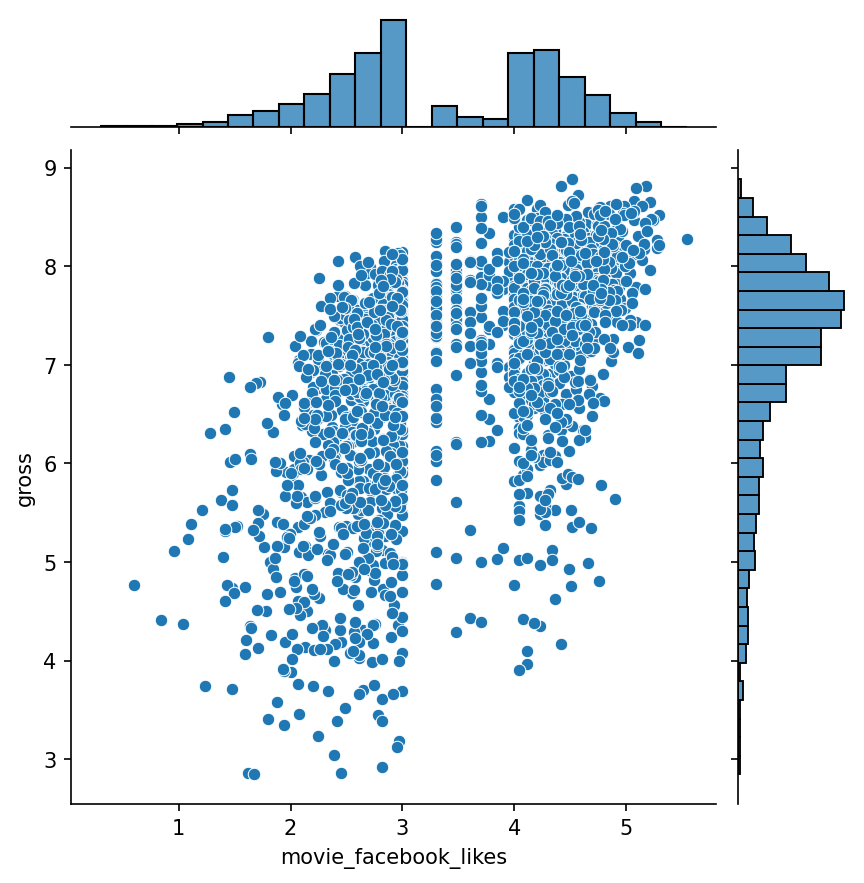
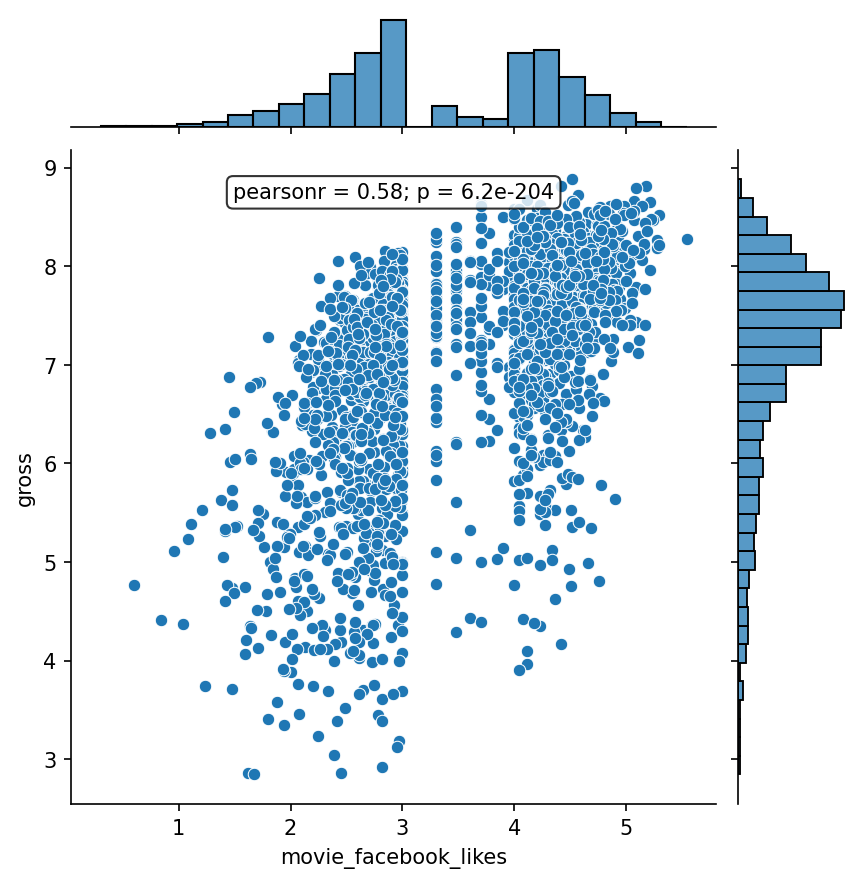
commit

Changed region(s): [[0.25, 0.1835, 0.6562, 0.2446]]

diff --git a/Seaborn.py b/Seaborn.py
@@ -58,15 +58,25 @@ from pathlib import Path
 meteo_mes = pd.read_csv("./U09_datasets/meteo_mes_agg.csv", sep = ";")
 
 # Vamos a ver ahora las temperaturas por mes
+
+# Cierra posibles figuras previas para evitar “manchas”
+plt.close('all')
+# Dibuja el gráfico sobre 'ax'
 sns.swarmplot(data=meteo_mes, x="mes", y="temp_c")
+# Ajusta márgenes automáticamente
 plt.tight_layout()
-
-BASE = Path(__file__).parent
+# Construye la ruta de salida dentro del workspace
+BASE = Path.cwd()
 out = BASE / "graficos_seaborn" / "plot.png"
+# Crea la carpeta si no existe
 out.parent.mkdir(parents=True, exist_ok=True)
-
+# Guarda la figura
 plt.savefig(out, dpi=150, bbox_inches="tight")
+# Imprime la ruta absoluta para comprobar que se ha creado correctamente
 print (f"OK -> {out.resolve()}")
+# Cierra la figura actual y no 'manchamos' la siguiente
+plt.close(plt.gcf())
+
 # sns.swarmplot() crea un gráfico de dispersión evitando que se solapen los puntos.
 
 ## DESCUBRIENDO LA DISTRIBUCION DE LOS DATOS ##
@@ -75,31 +85,35 @@ print (f"OK -> {out.resolve()}")
 # es examinar distintas medidas descriptivas de la distribución, como la media, la desviación 
 # típica, los mínimos y máximos, etc. a la hora de examinar gráficamente nuestros datos,
 # usaremos sns.displot().
-
+plt.close('all')
 sns.displot(meteo_mes['viento_vel_kmh'], kde=True)
-BASE = Path(__file__).parent
+BASE = Path.cwd()
 out = BASE / "graficos_seaborn" / "historico1.png"
 out.parent.mkdir(parents=True, exist_ok=True)
 plt.savefig(out, dpi=150, bbox_inches="tight")
 print (f"OK -> {out.resolve()}")
+plt.close(plt.gcf())
 
 # Podemos omitir el estimador de densidad con la opción 'kde = False'. También podemos añadir 
 # marcadores para ver el número de observaciones de cada valor en el eje X con la opción 'rug = True'.
-
+plt.close('all')
 sns.displot(meteo_mes['viento_vel_kmh'], kde=False, rug=True)
-BASE = Path(__file__).parent
+BASE = Path.cwd()
 out = BASE / "graficos_seaborn" / "historico2.png"
 out.parent.mkdir(parents=True, exist_ok=True)
 plt.savefig(out, dpi=150, bbox_inches="tight")
 print (f"OK -> {out.resolve()}")
+plt.close(plt.gcf())
 
 # Otra forma de ver la distribución de una variable es mediante un diagrama de caja o boxplot.
+plt.close('all')
 sns.boxplot(data=meteo_mes, y='viento_vel_kmh')
-BASE = Path(__file__).parent
+BASE = Path.cwd()
 out = BASE / "graficos_seaborn" / "caja1.png"
 out.parent.mkdir(parents=True, exist_ok=True)
 plt.savefig(out, dpi=150, bbox_inches="tight")
 print (f"OK -> {out.resolve()}")
+plt.close(plt.gcf())
 
 ## VISUALIZANDO RELACIONES ENTRE VARIABLES ##
 # -------------------------------------------------------------------------------------------
@@ -108,17 +122,37 @@ print (f"OK -> {out.resolve()}")
 # un diagrama de dispersión (o scatter plot). En Seaborn podemos generarlo con sns.jointplot().
 
 # Vamos a cargar datos de películas
+from scipy.stats import pearsonr
 path = "/workspaces/First-Repository/U09_datasets/imdb_movie.csv"
 movies = pd.read_csv(path, sep=None, engine="python")
 
 # Veamos si hay interacción entre el número de "likes" en Facebook
 # y los ingresos brutos de taquilla que consigue una película
-sns.jointplot(data = movies, x='movie_facebook_likes', y='gross')
-BASE = Path(__file__).parent
+plt.close('all')
+
+# Datos log10 seguros (sin ceros/negativos)
+movies_fb = movies.loc[movies['movie_facebook_likes'] > 0, ['movie_facebook_likes','gross']]
+cols = ["movie_facebook_likes", "gross"]
+df = movies_fb[cols].replace(0, np.nan).dropna()
+df = np.log10(df)
+
+g = sns.jointplot(
+    data = movies, x='movie_facebook_likes', y='gross'
+    , kind = "scatter", height=5, ratio=5, space=0)
+
+# Calculamos el coeficiente de Pearson y el p-valor asociado
+r, p = pearsonr(df["movie_facebook_likes"], df["gross"])
+g.ax_joint.text(
+    0.5, 0.95, f"pearsonr = {r:.2f}; p = {p:.1e}",
+    transform=g.ax_joint.transAxes, ha="center", va="top",
+    bbox=dict(boxstyle="round", facecolor="white", alpha=0.8))
+
+BASE = Path.cwd()
 out = BASE / "graficos_seaborn" / "dispersion1.png"
 out.parent.mkdir(parents=True, exist_ok=True)
-plt.savefig(out, dpi=150, bbox_inches="tight")
+g.figure.savefig(out, dpi=150, bbox_inches="tight")
 print (f"OK -> {out.resolve()}")
+plt.close(plt.gcf())
 
 # Este tipo de gráficos nos muestra la distribución conjunta del par de variables, junto con las distribuciones 
 # o histogramas marginales de cada variable independiente. Además, nos indica cuál es el coeficiente de Pearson 
@@ -127,22 +161,43 @@ print (f"OK -> {out.resolve()}")
 # vamos a quedarnos con las películas que tienen datos de "likes"
 movies_fb = movies.loc[movies['movie_facebook_likes'] > 0, ['movie_facebook_likes','gross']]
 # aplicamos `log10` a las variables antes de pintar
-sns.jointplot(data = np.log10(movies_fb), x = 'movie_facebook_likes', y = 'gross', )
 
-BASE = Path(__file__).parent
+plt.close('all')
+g = sns.jointplot(data = np.log10(movies_fb), x = 'movie_facebook_likes', y = 'gross', )
+
+r, p = pearsonr(df["movie_facebook_likes"], df["gross"])
+g.ax_joint.text(
+    0.5, 0.95, f"pearsonr = {r:.2f}; p = {p:.1e}",
+    transform=g.ax_joint.transAxes, ha="center", va="top",
+    bbox=dict(boxstyle="round", facecolor="white", alpha=0.8))
+
+BASE = Path.cwd()
 out = BASE / "graficos_seaborn" / "mapa1.png"
 out.parent.mkdir(parents=True, exist_ok=True)
-plt.savefig(out, dpi=150, bbox_inches="tight")
+g.figure.savefig(out, dpi=150, bbox_inches="tight")
 print (f"OK -> {out.resolve()}")
+plt.close(plt.gcf())
 
 # Si lo preferimos, podemos mostrar densidades de probabilidad estimadas en lugar 
 # de las observaciones e histogramas.
 
-sns.jointplot(data = np.log10(movies_fb), x = 'movie_facebook_likes', y = 'gross', kind="kde")
+plt.close('all')
+g = sns.jointplot(
+    data=df, x="movie_facebook_likes", y="gross",
+    kind="kde", fill=True, height=5, ratio=5, space=0)
+
+r, p = pearsonr(df["movie_facebook_likes"], df["gross"])
+g.ax_joint.text(
+    0.5, 0.95, f"pearsonr = {r:.2f}; p = {p:.1e}",
+    transform=g.ax_joint.transAxes, ha="center", va="top",
+    bbox=dict(boxstyle="round", facecolor="white", alpha=0.8))
+
+BASE = Path.cwd()
 out = BASE / "graficos_seaborn" / "mapa2.png"
 out.parent.mkdir(parents=True, exist_ok=True)
-plt.savefig(out, dpi=150, bbox_inches="tight")
+g.figure.savefig(out, dpi=150, bbox_inches="tight")
 print (f"OK -> {out.resolve()}")
+plt.close(plt.gcf())
 
 # Una vez que hemos identificado una posible interacción entre variables, 
 # podemos estimar y pintar un modelo ajustado a las observaciones.
@@ -152,11 +207,22 @@ print (f"OK -> {out.resolve()}")
 # Si preferimos omitir este ajuste lineal, basta con incluir la opción 'fit_reg=False'.
 
 # aplicamos `log10` a las variables antes de pintar
-sns.regplot(data = np.log10(movies_fb), x = 'movie_facebook_likes', y = 'gross')
+plt.close('all')
+g = sns.regplot(data = np.log10(movies_fb), x = 'movie_facebook_likes', y = 'gross')
+ax = plt.gca()
+
+r, p = pearsonr(df["movie_facebook_likes"], df["gross"])
+ax.text(
+    0.5, 0.95, f"pearsonr = {r:.2f}; p = {p:.1e}",
+    transform= ax.transAxes, ha="center", va="top",
+    bbox=dict(boxstyle="round", facecolor="white", alpha=0.8))
+
+BASE = Path.cwd()
 out = BASE / "graficos_seaborn" / "regresion_y_dispersion1.png"
 out.parent.mkdir(parents=True, exist_ok=True)
 plt.savefig(out, dpi=150, bbox_inches="tight")
 print (f"OK -> {out.resolve()}")
+plt.close(plt.gcf())
 
 # -- IMPORTANTE --
 
@@ -172,55 +238,92 @@ print (f"OK -> {out.resolve()}")
 # la respuesta (variable dependiente) en función del nivel o categoría.
 
 # Por ejemplo, veamos cómo varían las temperaturas medias mensuales en función de la ciudad.
+plt.close('all')
 sns.swarmplot(data=meteo_mes, x='mes', y='temp_c', hue='ciudad')
+BASE = Path.cwd()
 out = BASE / "graficos_seaborn" / "plot2.png"
 out.parent.mkdir(parents=True, exist_ok=True)
 plt.savefig(out, dpi=150, bbox_inches="tight")
 print (f"OK -> {out.resolve()}")
+plt.close(plt.gcf())
 
 # Hemos indicado que coloree los puntos en función de la ciudad (hue='ciudad')
 
 # Igual que utilizamos un boxplot para ver la distribución de una variable, 
 # podemos ver la distribución por niveles o categorías.
-sns.boxplot(data=meteo_mes, x='mes', y='temp_c')
+plt.close('all')
+g = sns.boxplot(data=meteo_mes, x='mes', y='temp_c')
+ax = plt.gca()
+
+r, p = pearsonr(df["movie_facebook_likes"], df["gross"])
+ax.text(
+    0.5, 0.95, f"pearsonr = {r:.2f}; p = {p:.1e}",
+    transform= ax.transAxes, ha="center", va="top",
+    bbox=dict(boxstyle="round", facecolor="white", alpha=0.8))
+
+BASE = Path.cwd()
 out = BASE / "graficos_seaborn" / "caja2.png"
 out.parent.mkdir(parents=True, exist_ok=True)
 plt.savefig(out, dpi=150, bbox_inches="tight")
 print (f"OK -> {out.resolve()}")
+plt.close(plt.gcf())
 
 # También podemos dividir por otra variable categórica usando 'hue' de nuevo.
+plt.close('all')
+sns.set_theme(style="whitegrid")
+pal = sns.color_palette("deep", 2)
+
 sns.boxplot(data=meteo_mes, x='mes', y='temp_c', hue='año')
+
+BASE = Path.cwd()
 out = BASE / "graficos_seaborn" / "caja3.png"
 out.parent.mkdir(parents=True, exist_ok=True)
 plt.savefig(out, dpi=150, bbox_inches="tight")
 print (f"OK -> {out.resolve()}")
-
+plt.close(plt.gcf())
 
 # Otra forma de ver la distribución de una variable dependiendo de distintos factores 
 # o categorías es mediante un gráfico de violín. se estiman la densidad de los datos
+plt.close('all')
+sns.set_theme(style="whitegrid")
+pal = sns.color_palette("deep", 2)
 
 sns.violinplot(data=meteo_mes, x='mes', y='temp_c', hue='año')
+
+
+pal = sns.color_palette("deep", 2)
+BASE = Path.cwd()
 out = BASE / "graficos_seaborn" / "violin1.png"
 out.parent.mkdir(parents=True, exist_ok=True)
 plt.savefig(out, dpi=150, bbox_inches="tight")
 print (f"OK -> {out.resolve()}")
+plt.close(plt.gcf())
 
 # Y podemos partir cada violin y que cada mitad se aplique a un nivel, utilizando el argumento 'split=True'
+plt.close('all')
+sns.set_theme(style="whitegrid")
+pal = sns.color_palette("deep", 2)
+
 sns.violinplot(data=meteo_mes, x='mes', y='temp_c', hue='año', split=True)
+
+BASE = Path.cwd()
 out = BASE / "graficos_seaborn" / "violin2.png"
 out.parent.mkdir(parents=True, exist_ok=True)
 plt.savefig(out, dpi=150, bbox_inches="tight")
 print (f"OK -> {out.resolve()}")
+plt.close(plt.gcf())
 
 # Por último, otra forma de comparar valores entre categorías es utilizando gráficos de barras. 
 # Para ello tenemos la función sns.barplot(), que muestra un indicador agregado estadístico 
-# de las observaciones para cada categoría (por defecto calcula la media)ç
-sns.barplot(data=meteo_mes, x='mes', y='temp_c', hue='año')
+# de las observaciones para cada categoría (por defecto calcula la media)
+plt.close('all')
+sns.barplot(data=meteo_mes, x='mes', y='temp_c', hue="año")
+BASE = Path.cwd()
 out = BASE / "graficos_seaborn" / "barras1.png"
 out.parent.mkdir(parents=True, exist_ok=True)
 plt.savefig(out, dpi=150, bbox_inches="tight")
 print (f"OK -> {out.resolve()}")
-
+plt.close(plt.gcf())
 
 ## FACETS ##
 # -----------------------------------------------------------------------------------------------------
@@ -231,15 +334,17 @@ print (f"OK -> {out.resolve()}")
 
 # Vamos a seleccionar datos de unas pocas ciudades
 meteo_bvz = meteo_mes[--meteo_mes['ciudad'].isin(['Bilbao','Valencia','Zaragoza'])]
-# Pintar una rejilla con tantas filas como años
-# y tantas columnas como ciudades;
-# en cada panel incluir un gráfico de puntos 
-# de temperatura por mes
+
+# Pintar una rejilla con tantas filas como años y tantas columnas como ciudades;
+# en cada panel incluir un gráfico de puntos de temperatura por mes.
+plt.close('all')
 sns.FacetGrid(data=meteo_bvz, row='año', col='ciudad').map(sns.pointplot, "mes", "temp_c")
+BASE = Path.cwd()
 out = BASE / "graficos_seaborn" / "facets1.png"
 out.parent.mkdir(parents=True, exist_ok=True)
 plt.savefig(out, dpi=150, bbox_inches="tight")
 print (f"OK -> {out.resolve()}")
+plt.close(plt.gcf())
 
 # Con sns.FacetGrid hemos definido una rejilla con tantas filas como años y tantas columnas como ciudades. 
 # Sobre cada celda del grid construido, aplicamos (con map) la función gráfica que queremos representar; 
@@ -254,10 +359,13 @@ meteo_bvz_long = pd.melt(meteo_bvz,
 	                         value_vars=['temp_c','viento_vel_kmh'], 
 	                         var_name='variable', value_name='valor')
 
-	# Ahora en cada fila de la rejilla representamos una variable meteo
-	# y con el color representamos el año
+# Ahora en cada fila de la rejilla representamos una variable meteo
+# y con el color representamos el año
+plt.close('all')
 sns.FacetGrid(meteo_bvz_long, row='variable', col='ciudad', hue='año').map(sns.pointplot, 'mes', 'valor')
+BASE = Path.cwd()
 out = BASE / "graficos_seaborn" / "facets2.png"
 out.parent.mkdir(parents=True, exist_ok=True)
 plt.savefig(out, dpi=150, bbox_inches="tight")
 print (f"OK -> {out.resolve()}")
+plt.close(plt.gcf())
